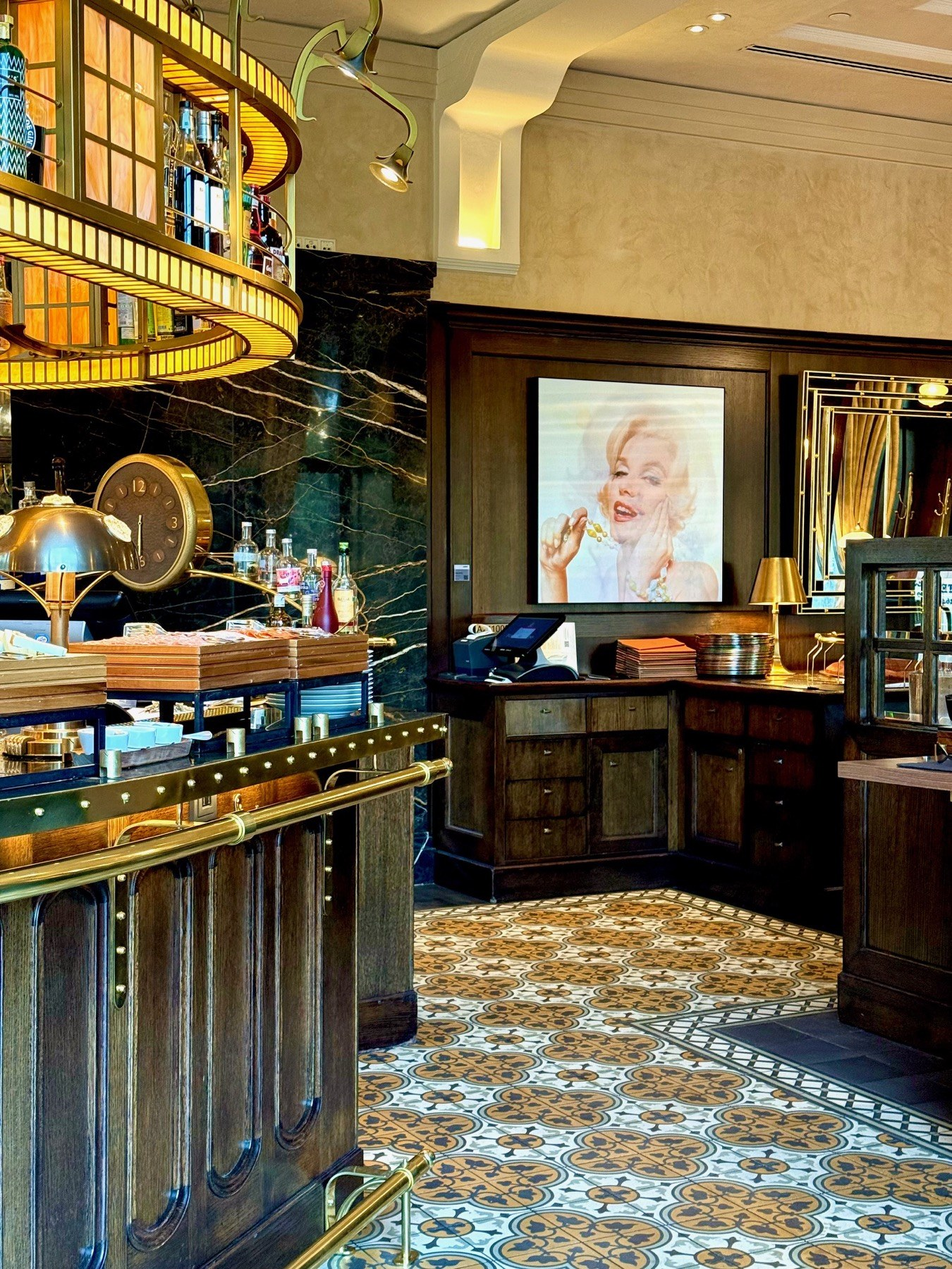
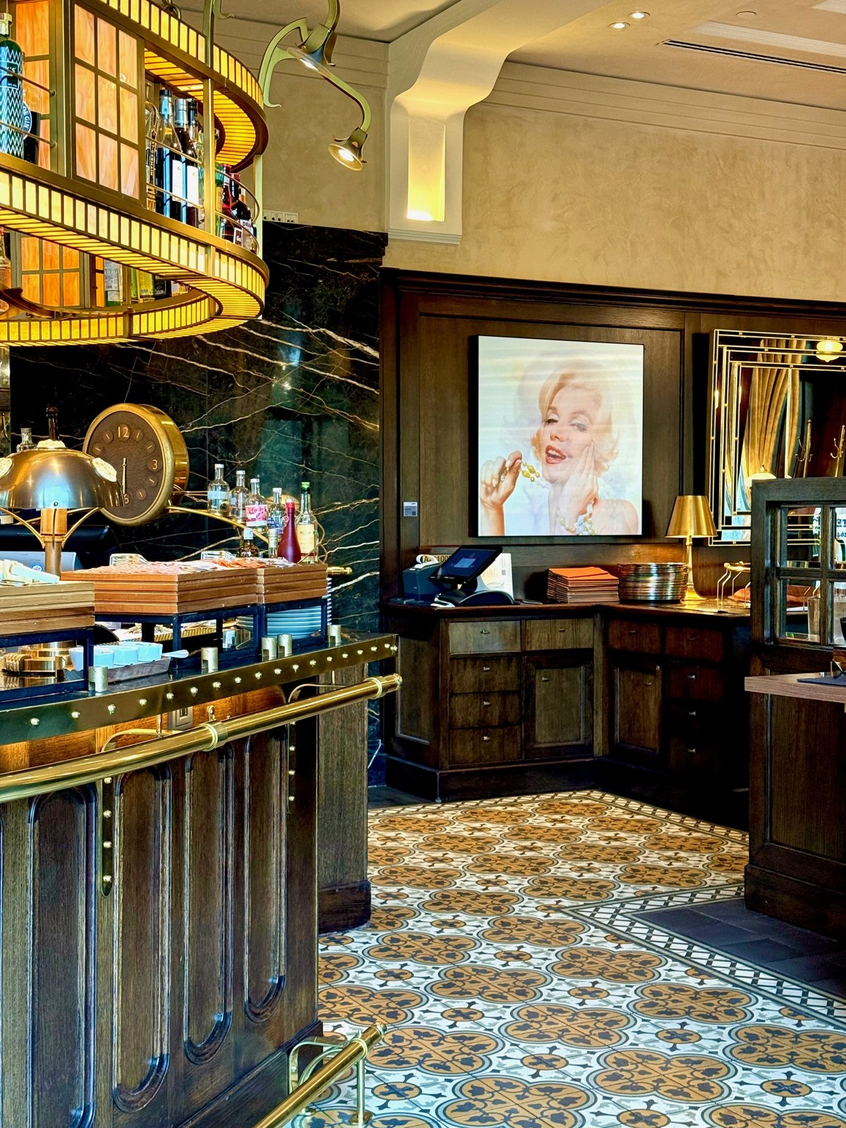
LM-0000 Enrich Hotels + Trade hub with high-res real Four Seasons Budapest photography (Simo series, Brodziak, Classics, Colonna, grand dining) from the DAM B2B Budapest set

Changed region(s): [[0.8325, 0.4062, 0.8633, 0.4688], [0.0, 0.0625, 0.0308, 0.125]]

diff --git a/onsite-alignment/art-advisory/trade-hotels.html b/onsite-alignment/art-advisory/trade-hotels.html
@@ -11,7 +11,7 @@
   <link rel="preconnect" href="https://fonts.googleapis.com">
   <link rel="preconnect" href="https://fonts.gstatic.com" crossorigin>
   <link href="https://fonts.googleapis.com/css2?family=Archivo:wght@300;400;500;700&family=Hanken+Grotesk:wght@300;400;500&display=swap" rel="stylesheet">
-  <link rel="stylesheet" href="assets/site.css?v=16">
+  <link rel="stylesheet" href="assets/site.css?v=17">
   <style>#contact { scroll-margin-top: 84px; }</style>
 </head>
 <body>
@@ -27,7 +27,7 @@
         <p class="body-large hero__lede measure reveal">From a single suite floor to a whole newbuild, we curate, produce and install signed editions that guests notice and remember. One Art Consultant, one framing standard, one delivery date.</p>
         <div class="hero__actions reveal"><button class="btn btn--primary" type="button" data-open-enquiry data-goal="cta_click" data-cta="hero_enquiry">Request a curation brief</button><a class="btn btn--ghost" href="#projects" data-goal="cta_click" data-cta="hero_projects">See selected work</a></div>
       </div>
-      <div class="hero__art reveal"><img src="assets/projects/four-seasons-lobby.jpg" width="1350" height="1800" alt="A Bert Stern edition in the lobby of the Four Seasons, Budapest" loading="eager"></div>
+      <div class="hero__art reveal"><img src="assets/projects/four-seasons-lobby.jpg" width="1200" height="1600" alt="A Bert Stern edition in the lobby bar of the Four Seasons, Budapest" loading="eager"></div>
     </div></section>
     <section class="section surface-raised"><div class="wrap"><div class="section-head reveal"><p class="eyebrow">Why LUMAS</p><h2 class="display-h2 mt-s">Most hotel art is bought like furniture, and it shows</h2></div><p class="body-large txt-secondary measure reveal">Guests do not photograph a print run. They photograph a work they have never seen before, in a room composed around it. We start from the property's positioning and the architecture of each room type, then curate signed, limited editions from the artists we represent, produced to one framing and glazing standard and documented for your asset register.</p></div></section>
     <section class="wrap section hairline-top"><div class="section-head reveal"><p class="eyebrow">What we cover</p><h2 class="display-h2">Where the work goes</h2></div>
@@ -48,16 +48,18 @@
       <div class="carousel" data-carousel="hotels">
         <div class="carousel__viewport">
           <div class="carousel__track">
-            <article class="slide reveal"><img class="slide__img" src="assets/projects/four-seasons-lobby.jpg" width="1350" height="1800" alt="Four Seasons Hotel Gresham Palace, Budapest, lobby, Bert Stern edition." loading="lazy"><div class="slide__cap"><p class="ui-label txt-secondary slide__sector">Four Seasons, Budapest</p><p>Four Seasons Hotel Gresham Palace, Budapest, lobby, Bert Stern edition.</p></div></article>
-            <article class="slide reveal"><img class="slide__img" src="assets/projects/four-seasons-dining.jpg" width="1200" height="1600" alt="Four Seasons Hotel Gresham Palace, Budapest, restaurant, Ysabel LeMay edition." loading="lazy"><div class="slide__cap"><p class="ui-label txt-secondary slide__sector">Four Seasons, Budapest</p><p>Four Seasons Hotel Gresham Palace, Budapest, restaurant, Ysabel LeMay edition.</p></div></article>
-            <article class="slide reveal"><img class="slide__img" src="assets/projects/four-seasons-corridor.jpg" width="1200" height="1600" alt="Four Seasons Hotel Gresham Palace, Budapest, circulation." loading="lazy"><div class="slide__cap"><p class="ui-label txt-secondary slide__sector">Four Seasons, Budapest</p><p>Four Seasons Hotel Gresham Palace, Budapest, circulation.</p></div></article>
-            <article class="slide reveal"><img class="slide__img" src="assets/projects/hotel-terrace.jpg" width="600" height="432" alt="A LUMAS edition on a resort terrace." loading="lazy"><div class="slide__cap"><p class="ui-label txt-secondary slide__sector">Hospitality</p><p>A LUMAS edition on a resort terrace.</p></div></article>
-            <article class="slide reveal"><img class="slide__img" src="assets/projects/hotel-spa.jpg" width="700" height="386" alt="A LUMAS edition in a hotel spa." loading="lazy"><div class="slide__cap"><p class="ui-label txt-secondary slide__sector">Hospitality</p><p>A LUMAS edition in a hotel spa.</p></div></article>
+            <article class="slide reveal"><img class="slide__img" src="assets/projects/four-seasons-lobby.jpg" width="1200" height="1600" alt="Four Seasons Hotel Gresham Palace, Budapest, lobby bar, Bert Stern edition." loading="lazy"><div class="slide__cap"><p class="ui-label txt-secondary slide__sector">Four Seasons, Budapest</p><p>Four Seasons Hotel Gresham Palace, Budapest, lobby bar, Bert Stern edition.</p></div></article>
+            <article class="slide reveal"><img class="slide__img" src="assets/projects/four-seasons-series.jpg" width="1200" height="1600" alt="Four Seasons, Budapest, a dining-room series by Marta C. Simo." loading="lazy"><div class="slide__cap"><p class="ui-label txt-secondary slide__sector">Four Seasons, Budapest</p><p>Four Seasons, Budapest, a dining-room series by Marta C. Simo.</p></div></article>
+            <article class="slide reveal"><img class="slide__img" src="assets/projects/four-seasons-dining.jpg" width="1200" height="1600" alt="Four Seasons, Budapest, restaurant, Ysabel LeMay edition." loading="lazy"><div class="slide__cap"><p class="ui-label txt-secondary slide__sector">Four Seasons, Budapest</p><p>Four Seasons, Budapest, restaurant, Ysabel LeMay edition.</p></div></article>
+            <article class="slide reveal"><img class="slide__img" src="assets/projects/four-seasons-diningroom.jpg" width="1200" height="1600" alt="Four Seasons, Budapest, the grand dining room." loading="lazy"><div class="slide__cap"><p class="ui-label txt-secondary slide__sector">Four Seasons, Budapest</p><p>Four Seasons, Budapest, the grand dining room.</p></div></article>
+            <article class="slide reveal"><img class="slide__img" src="assets/projects/four-seasons-brodziak.jpg" width="1200" height="1600" alt="Four Seasons, Budapest, a statement work by Szymon Brodziak." loading="lazy"><div class="slide__cap"><p class="ui-label txt-secondary slide__sector">Four Seasons, Budapest</p><p>Four Seasons, Budapest, a statement work by Szymon Brodziak.</p></div></article>
+            <article class="slide reveal"><img class="slide__img" src="assets/projects/four-seasons-classics.jpg" width="1200" height="1600" alt="Four Seasons, Budapest, classic photography on the Art Nouveau walls." loading="lazy"><div class="slide__cap"><p class="ui-label txt-secondary slide__sector">Four Seasons, Budapest</p><p>Four Seasons, Budapest, classic photography on the Art Nouveau walls.</p></div></article>
+            <article class="slide reveal"><img class="slide__img" src="assets/projects/four-seasons-colonna.jpg" width="1200" height="1600" alt="Four Seasons, Budapest, an architectural edition by Massimo Colonna." loading="lazy"><div class="slide__cap"><p class="ui-label txt-secondary slide__sector">Four Seasons, Budapest</p><p>Four Seasons, Budapest, an architectural edition by Massimo Colonna.</p></div></article>
           </div>
         </div>
         <button class="carousel__btn carousel__btn--prev" aria-label="Previous"><svg viewBox="0 0 24 24" fill="none" stroke="currentColor" stroke-width="1.6"><path d="M15 5l-7 7 7 7"/></svg></button>
         <button class="carousel__btn carousel__btn--next" aria-label="Next"><svg viewBox="0 0 24 24" fill="none" stroke="currentColor" stroke-width="1.6"><path d="M9 5l7 7-7 7"/></svg></button>
-        <p class="carousel__count" data-count>01 / 05</p>
+        <p class="carousel__count" data-count>01 / 07</p>
       </div>
       <p class="caption txt-secondary mt-l">Photography: Four Seasons Hotel Gresham Palace, Budapest.</p>
     </section>
@@ -201,6 +203,6 @@
     </div>
   </dialog>
   <div class="sticky-cta"><button class="btn btn--primary" type="button" data-open-enquiry data-goal="cta_click" data-cta="sticky_enquiry">Request a curation brief</button></div>
-  <script src="assets/site.js?v=16"></script>
+  <script src="assets/site.js?v=17"></script>
 </body>
 </html>

diff --git a/onsite-alignment/art-advisory/trade.html b/onsite-alignment/art-advisory/trade.html
@@ -22,7 +22,7 @@
   <link rel="preconnect" href="https://fonts.googleapis.com">
   <link rel="preconnect" href="https://fonts.gstatic.com" crossorigin>
   <link href="https://fonts.googleapis.com/css2?family=Archivo:wght@300;400;500;700&family=Hanken+Grotesk:wght@300;400;500&display=swap" rel="stylesheet">
-  <link rel="stylesheet" href="assets/site.css?v=15">
+  <link rel="stylesheet" href="assets/site.css?v=17">
   <style>#contact { scroll-margin-top: 84px; }</style>
 </head>
 <body>
@@ -224,8 +224,9 @@
       <div class="carousel" data-carousel="projects">
         <div class="carousel__viewport">
           <div class="carousel__track">
-            <article class="slide reveal"><img class="slide__img" src="assets/projects/four-seasons-dining.jpg" width="1200" height="1600" alt="An Ysabel LeMay edition in a restaurant at the Four Seasons, Budapest" loading="lazy"><div class="slide__cap"><p class="ui-label txt-secondary slide__sector">Hospitality</p><p>Four Seasons Hotel Gresham Palace, Budapest, Ysabel LeMay</p></div></article>
-            <article class="slide reveal"><img class="slide__img" src="assets/projects/four-seasons-corridor.jpg" width="1200" height="1600" alt="LUMAS editions along a corridor at the Four Seasons, Budapest" loading="lazy"><div class="slide__cap"><p class="ui-label txt-secondary slide__sector">Hospitality</p><p>Four Seasons Hotel Gresham Palace, Budapest</p></div></article>
+            <article class="slide reveal"><img class="slide__img" src="assets/projects/four-seasons-series.jpg" width="1200" height="1600" alt="A Marta C. Simo dining-room series at the Four Seasons, Budapest" loading="lazy"><div class="slide__cap"><p class="ui-label txt-secondary slide__sector">Hospitality</p><p>Four Seasons Hotel Gresham Palace, Budapest, Marta C. Simo</p></div></article>
+            <article class="slide reveal"><img class="slide__img" src="assets/projects/four-seasons-brodziak.jpg" width="1200" height="1600" alt="A Szymon Brodziak statement work at the Four Seasons, Budapest" loading="lazy"><div class="slide__cap"><p class="ui-label txt-secondary slide__sector">Hospitality</p><p>Four Seasons Hotel Gresham Palace, Budapest, Szymon Brodziak</p></div></article>
+            <article class="slide reveal"><img class="slide__img" src="assets/projects/four-seasons-classics.jpg" width="1200" height="1600" alt="Classic photography on the Art Nouveau walls of the Four Seasons, Budapest" loading="lazy"><div class="slide__cap"><p class="ui-label txt-secondary slide__sector">Hospitality</p><p>Four Seasons Hotel Gresham Palace, Budapest, Classics</p></div></article>
             <article class="slide reveal"><img class="slide__img" src="assets/projects/club-green.jpg" width="1200" height="1600" alt="A framed edition on a green wall at The Club, Budapest" loading="lazy"><div class="slide__cap"><p class="ui-label txt-secondary slide__sector">Private club</p><p>The Club, Budapest</p></div></article>
             <article class="slide reveal"><img class="slide__img" src="assets/projects/club-booth.jpg" width="1200" height="1600" alt="Framed editions in a panelled booth at The Club, Budapest" loading="lazy"><div class="slide__cap"><p class="ui-label txt-secondary slide__sector">Private club</p><p>The Club, Budapest</p></div></article>
             <article class="slide reveal"><img class="slide__img" src="assets/projects/residence-living.jpg" width="1600" height="1143" alt="LUMAS editions in the living room of a private residence in Budapest" loading="lazy"><div class="slide__cap"><p class="ui-label txt-secondary slide__sector">Residential</p><p>Private residence, Budapest</p></div></article>
@@ -409,6 +410,6 @@
   </dialog>
 
   <div class="sticky-cta"><button class="btn btn--primary" type="button" data-open-enquiry data-goal="cta_click" data-cta="sticky_enquiry">Request a curation brief</button></div>
-  <script src="assets/site.js?v=15"></script>
+  <script src="assets/site.js?v=17"></script>
 </body>
 </html>

diff --git a/onsite-alignment/art-advisory/trade-interior.html b/onsite-alignment/art-advisory/trade-interior.html
@@ -11,7 +11,7 @@
   <link rel="preconnect" href="https://fonts.googleapis.com">
   <link rel="preconnect" href="https://fonts.gstatic.com" crossorigin>
   <link href="https://fonts.googleapis.com/css2?family=Archivo:wght@300;400;500;700&family=Hanken+Grotesk:wght@300;400;500&display=swap" rel="stylesheet">
-  <link rel="stylesheet" href="assets/site.css?v=16">
+  <link rel="stylesheet" href="assets/site.css?v=17">
   <style>#contact { scroll-margin-top: 84px; }</style>
 </head>
 <body>
@@ -201,6 +201,6 @@
     </div>
   </dialog>
   <div class="sticky-cta"><button class="btn btn--primary" type="button" data-open-enquiry data-goal="cta_click" data-cta="sticky_enquiry">Request a curation brief</button></div>
-  <script src="assets/site.js?v=16"></script>
+  <script src="assets/site.js?v=17"></script>
 </body>
 </html>

diff --git a/onsite-alignment/art-advisory/trade-offices.html b/onsite-alignment/art-advisory/trade-offices.html
@@ -11,7 +11,7 @@
   <link rel="preconnect" href="https://fonts.googleapis.com">
   <link rel="preconnect" href="https://fonts.gstatic.com" crossorigin>
   <link href="https://fonts.googleapis.com/css2?family=Archivo:wght@300;400;500;700&family=Hanken+Grotesk:wght@300;400;500&display=swap" rel="stylesheet">
-  <link rel="stylesheet" href="assets/site.css?v=16">
+  <link rel="stylesheet" href="assets/site.css?v=17">
   <style>#contact { scroll-margin-top: 84px; }</style>
 </head>
 <body>
@@ -208,6 +208,6 @@
     </div>
   </dialog>
   <div class="sticky-cta"><button class="btn btn--primary" type="button" data-open-enquiry data-goal="cta_click" data-cta="sticky_enquiry">Request a curation brief</button></div>
-  <script src="assets/site.js?v=16"></script>
+  <script src="assets/site.js?v=17"></script>
 </body>
 </html>

diff --git a/onsite-alignment/art-advisory/trade-restaurants.html b/onsite-alignment/art-advisory/trade-restaurants.html
@@ -11,7 +11,7 @@
   <link rel="preconnect" href="https://fonts.googleapis.com">
   <link rel="preconnect" href="https://fonts.gstatic.com" crossorigin>
   <link href="https://fonts.googleapis.com/css2?family=Archivo:wght@300;400;500;700&family=Hanken+Grotesk:wght@300;400;500&display=swap" rel="stylesheet">
-  <link rel="stylesheet" href="assets/site.css?v=16">
+  <link rel="stylesheet" href="assets/site.css?v=17">
   <style>#contact { scroll-margin-top: 84px; }</style>
 </head>
 <body>
@@ -202,6 +202,6 @@
     </div>
   </dialog>
   <div class="sticky-cta"><button class="btn btn--primary" type="button" data-open-enquiry data-goal="cta_click" data-cta="sticky_enquiry">Request a curation brief</button></div>
-  <script src="assets/site.js?v=16"></script>
+  <script src="assets/site.js?v=17"></script>
 </body>
 </html>
